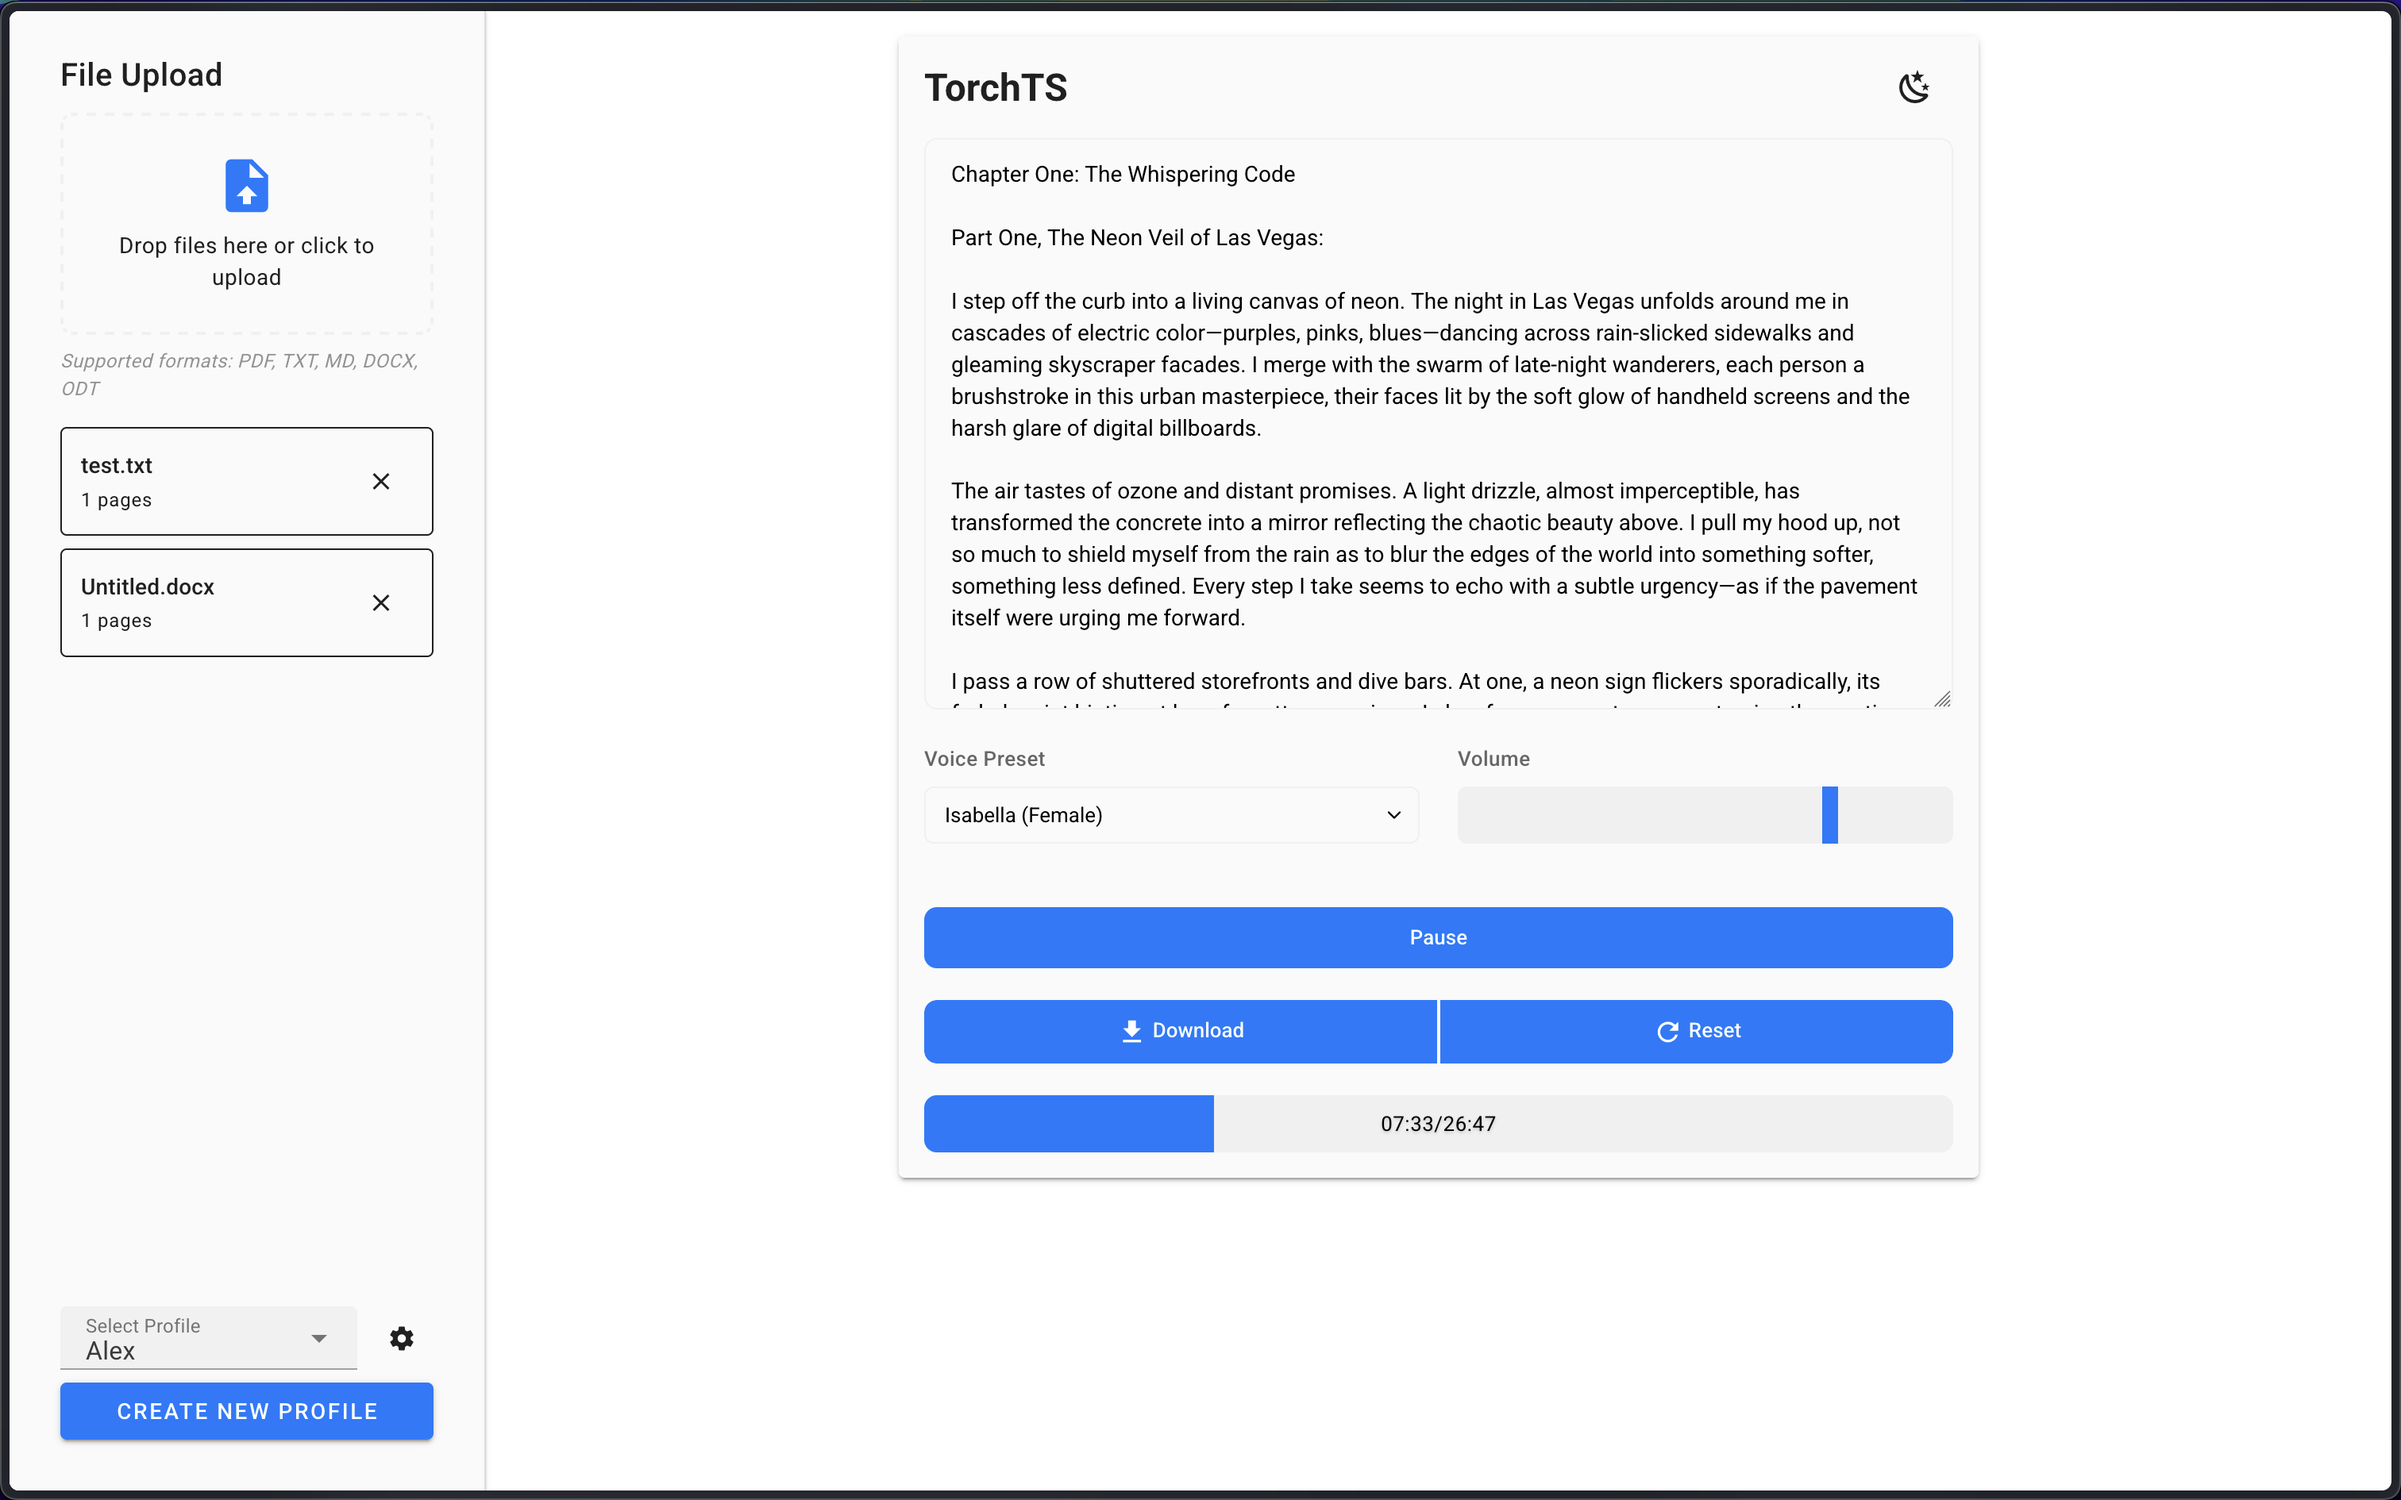
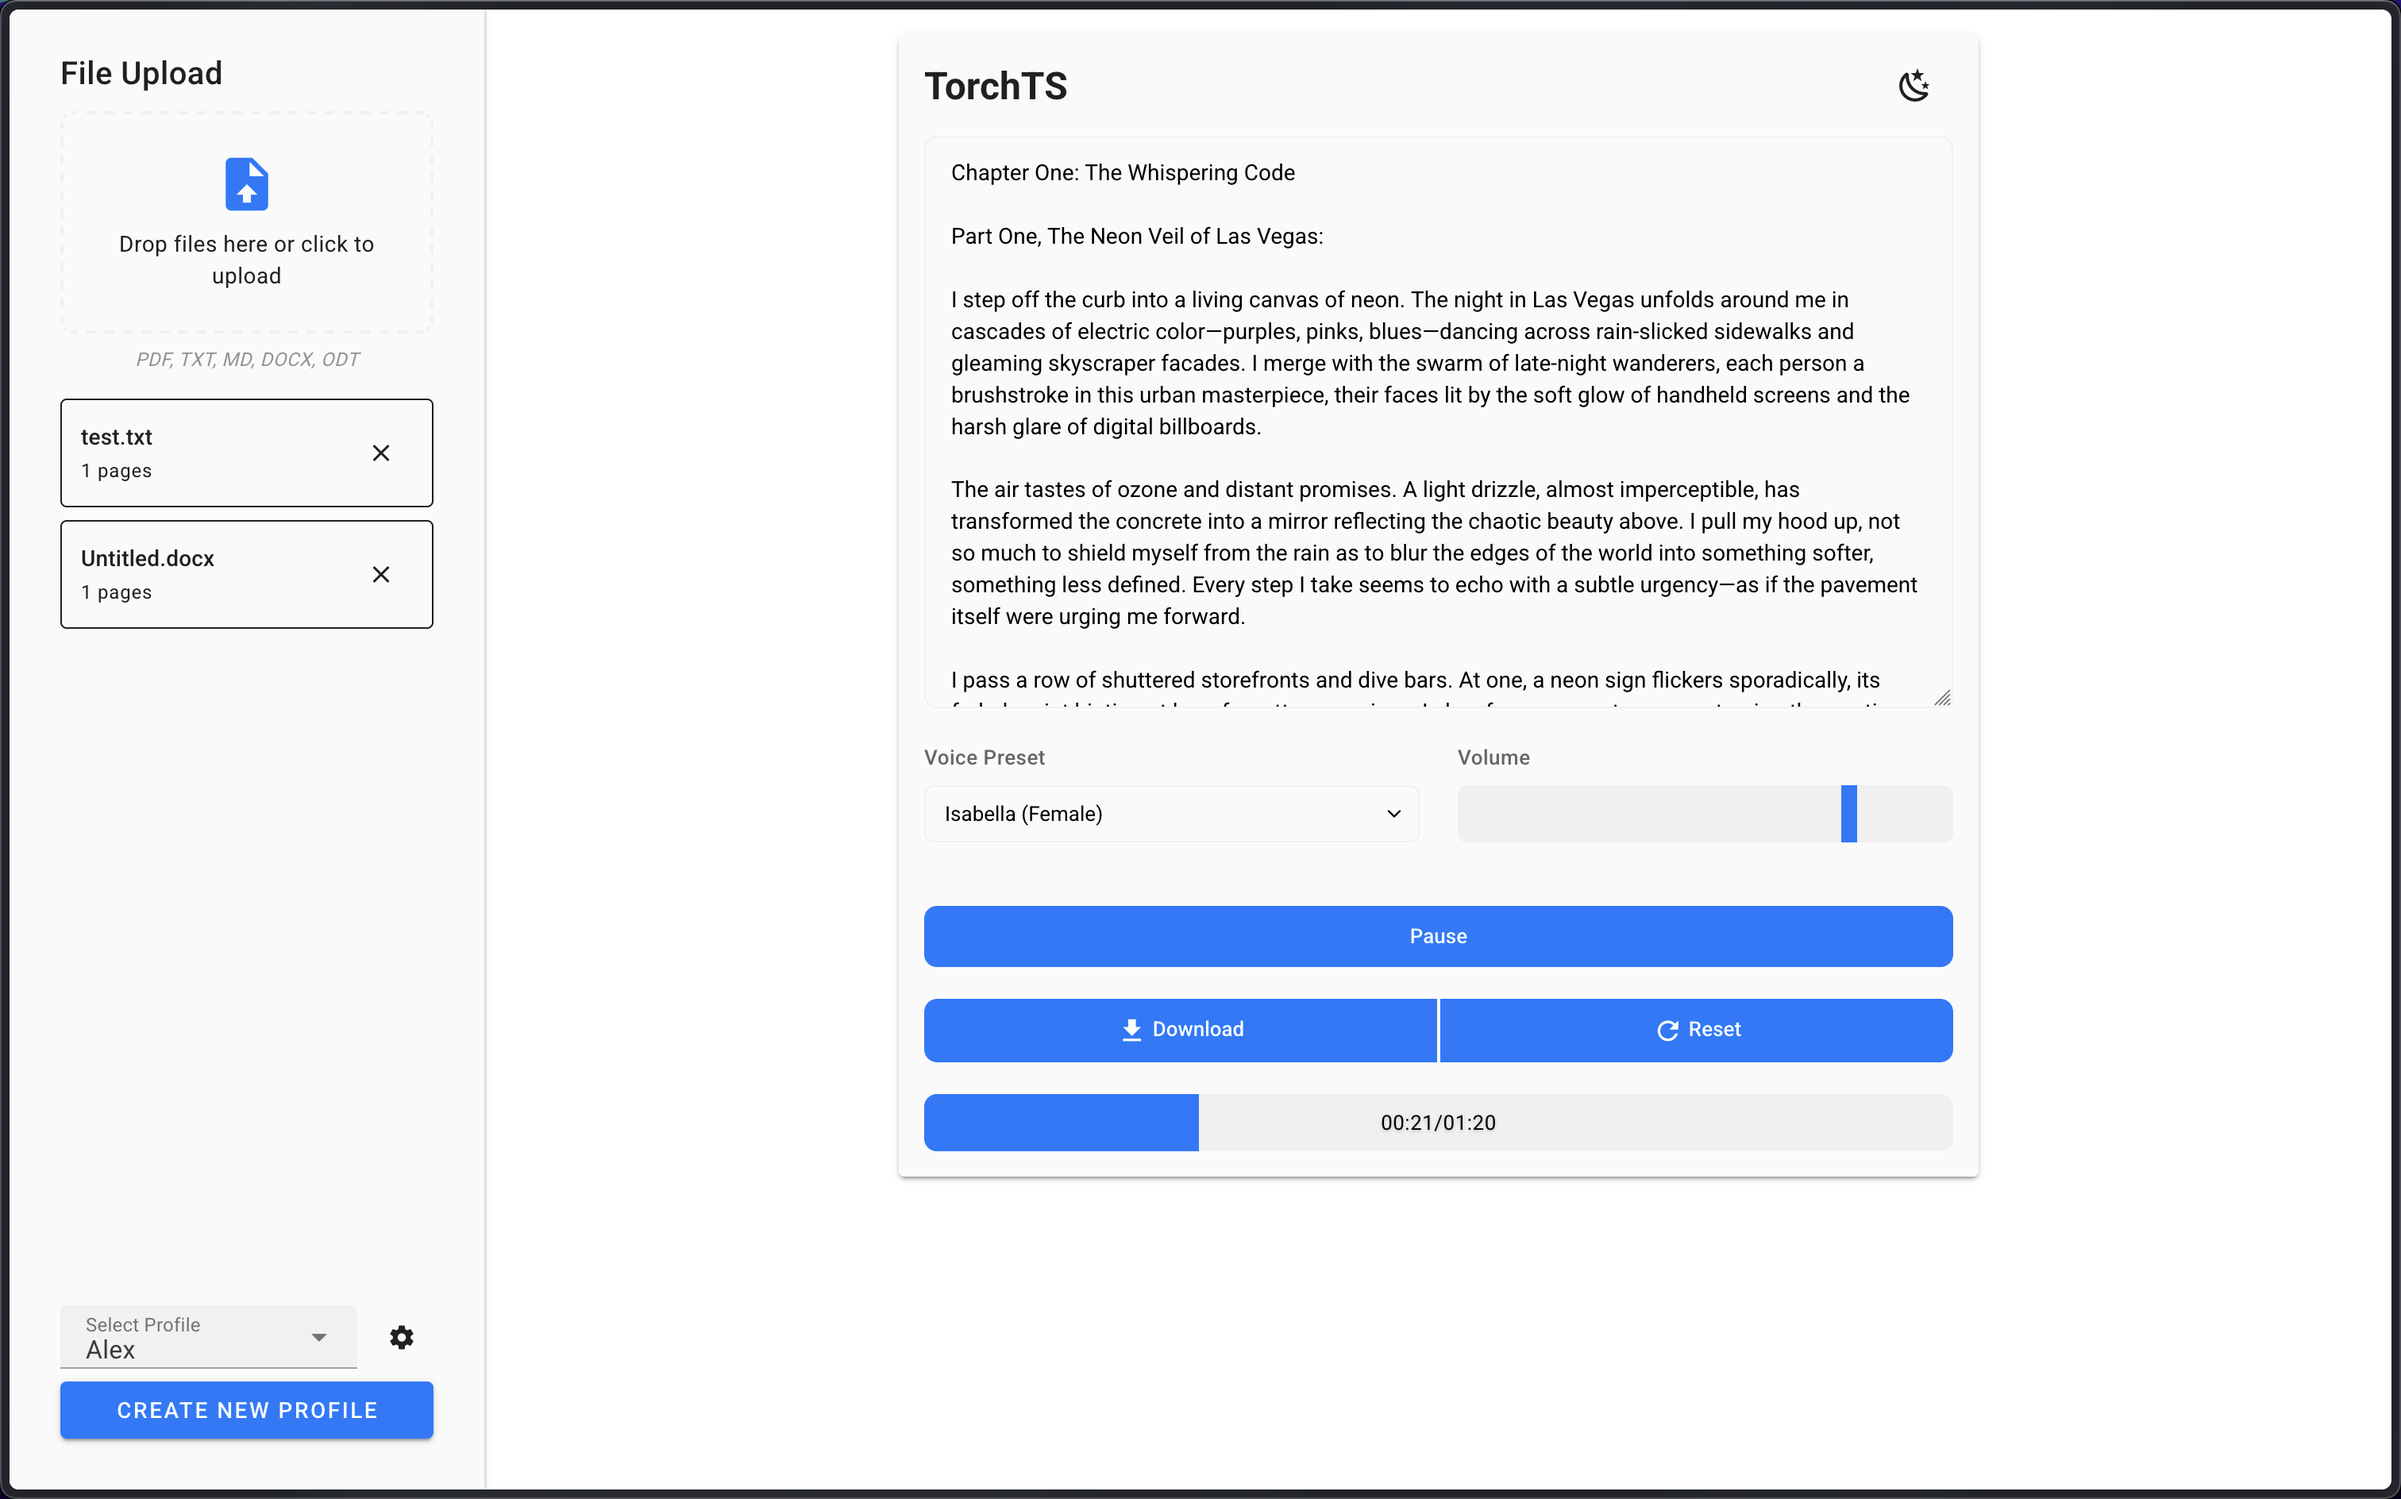
feat: updated example images

diff --git a/src/frontend/templates/vue/src/App.vue b/src/frontend/templates/vue/src/App.vue
@@ -38,7 +38,7 @@
               <p class="mt-2">Drop files here or click to upload</p>
             </div>
             <div class="supported-formats" aria-label="Supported file formats">
-              Supported formats: {{ SUPPORTED_FORMATS }}
+              {{ SUPPORTED_FORMATS }}
             </div>
           </div>
           
@@ -961,7 +961,7 @@ async function handleDeleteProfile() {
   color: rgb(var(--v-theme-on-surface-variant));
   opacity: 0.7;
   margin-top: 8px;
-  text-align: left;
+  text-align: center;
 }
 
 .progress-container {
